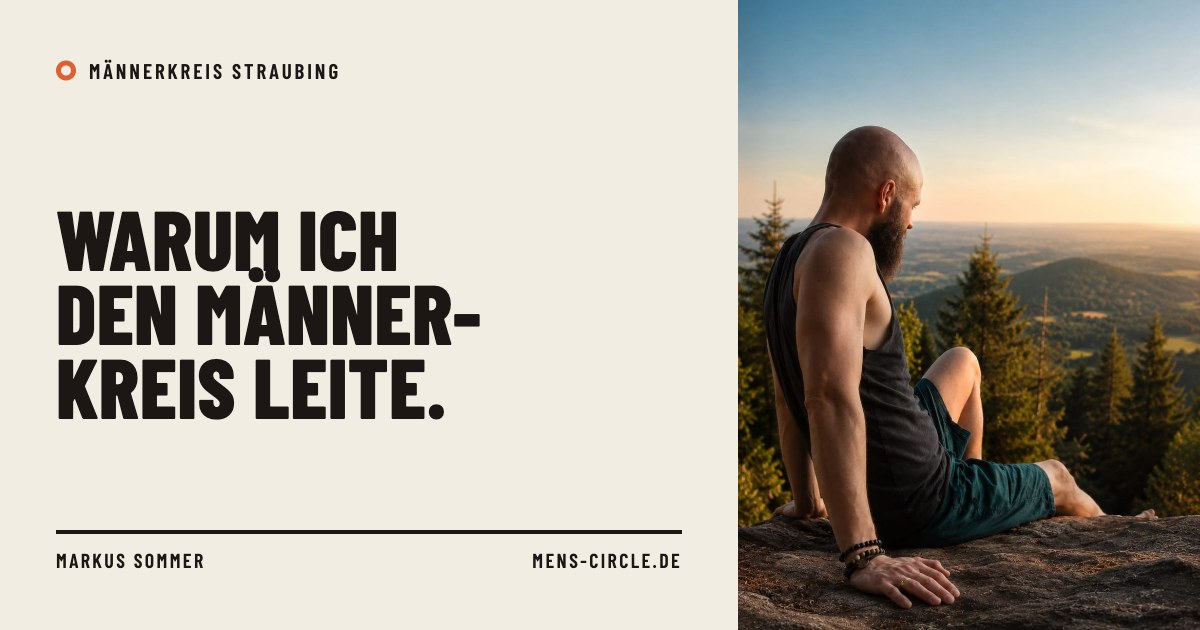
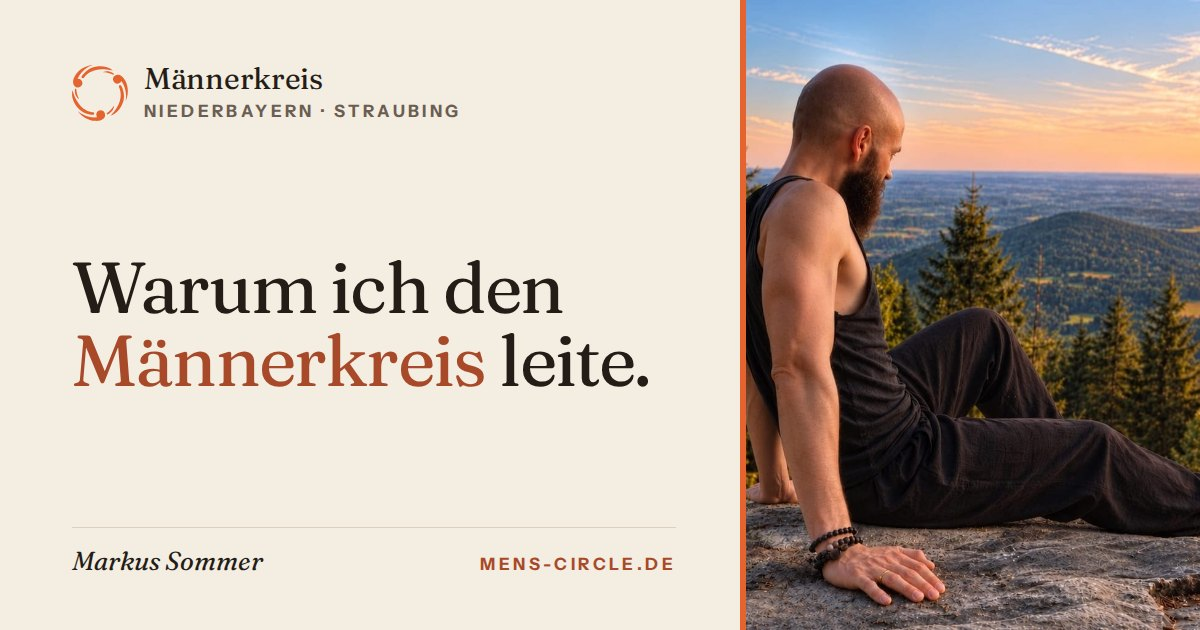
chore(branding): rebrand site as Männerkreis Niederbayern

diff --git a/listmonk-templates/campaign-mens-circle.html b/listmonk-templates/campaign-mens-circle.html
@@ -65,7 +65,7 @@
 
       <!-- Opening: the site's sentence -->
       <tr><td class="em-pad" style="padding:40px 40px 6px;">
-        <p class="em-sans" style="margin:0 0 14px;font-family:'Instrument Sans','Helvetica Neue',Helvetica,Arial,sans-serif;font-size:12px;font-weight:700;line-height:1.3;letter-spacing:0.18em;text-transform:uppercase;color:#6b5d52;"><span style="display:inline-block;width:7px;height:7px;margin-right:9px;border:1.5px solid #a84a2a;border-radius:50%;vertical-align:1px;"></span>Männerkreis Straubing</p>
+        <p class="em-sans" style="margin:0 0 14px;font-family:'Instrument Sans','Helvetica Neue',Helvetica,Arial,sans-serif;font-size:12px;font-weight:700;line-height:1.3;letter-spacing:0.18em;text-transform:uppercase;color:#6b5d52;"><span style="display:inline-block;width:7px;height:7px;margin-right:9px;border:1.5px solid #a84a2a;border-radius:50%;vertical-align:1px;"></span>Männerkreis Niederbayern</p>
         <h1 class="em-display em-serif" style="margin:0;font-family:'Fraunces',Georgia,'Times New Roman',serif;font-size:40px;font-weight:400;line-height:1.05;letter-spacing:-0.02em;color:#241c17;">Ein Abend, an dem du <span style="color:#a84a2a;">nichts darstellen</span> musst.</h1>
       </td></tr>
       <tr><td class="em-pad" style="padding:26px 40px 0;"><table role="presentation" width="100%" cellpadding="0" cellspacing="0" border="0"><tr><td style="height:1px;background-color:#dccfbd;font-size:0;line-height:0;">&nbsp;</td></tr></table></td></tr>
@@ -88,7 +88,7 @@
         <p class="em-sans" style="margin:12px 0 0;font-family:'Instrument Sans','Helvetica Neue',Helvetica,Arial,sans-serif;font-size:14px;line-height:1.65;color:#b3a594;">Ein Männerkreis in Straubing, Niederbayern. Wir treffen uns alle zwei bis vier Wochen für zwei bis drei Stunden, auf Spendenbasis und ohne Vorerfahrung.</p>
         <p class="em-sans" style="margin:16px 0 0;font-family:'Instrument Sans','Helvetica Neue',Helvetica,Arial,sans-serif;font-size:14px;font-weight:600;line-height:1.5;"><a href="{{ TrackLink "https://mens-circle.de" }}" target="_blank" style="color:#e4632e;text-decoration:none;">mens-circle.de</a><span style="color:#b3a594;">&nbsp;&nbsp;·&nbsp;&nbsp;</span><a href="{{ MessageURL }}" target="_blank" style="color:#e4632e;text-decoration:none;">Im Browser ansehen</a></p>
         <p class="em-sans" style="margin:20px 0 0;padding-top:16px;border-top:1px solid #3a302a;font-family:'Instrument Sans','Helvetica Neue',Helvetica,Arial,sans-serif;font-size:12px;line-height:1.6;color:#b3a594;">Du bekommst diese E-Mail, weil du dich für Nachrichten über neue Termine eingetragen hast. Mehr wird über diesen Verteiler nicht verschickt.</p>
-        <p class="em-sans" style="margin:10px 0 0;font-family:'Instrument Sans','Helvetica Neue',Helvetica,Arial,sans-serif;font-size:12px;line-height:1.6;color:#b3a594;"><a href="{{ UnsubscribeURL }}" target="_blank" style="color:#f1e9db;text-decoration:underline;">Vom Verteiler abmelden</a>&nbsp;&nbsp;·&nbsp;&nbsp;© {{ Date "2006" }} Männerkreis Straubing</p>
+        <p class="em-sans" style="margin:10px 0 0;font-family:'Instrument Sans','Helvetica Neue',Helvetica,Arial,sans-serif;font-size:12px;line-height:1.6;color:#b3a594;"><a href="{{ UnsubscribeURL }}" target="_blank" style="color:#f1e9db;text-decoration:underline;">Vom Verteiler abmelden</a>&nbsp;&nbsp;·&nbsp;&nbsp;© {{ Date "2006" }} Männerkreis Niederbayern</p>
       </td></tr>
 
     </table>

diff --git a/tests/event-meta.test.ts b/tests/event-meta.test.ts
@@ -36,9 +36,9 @@ test('held outside the home town, the title names the place before the brand', (
   expect(meta.title).toBe('Männerkreis am 18. September 2026 in Geiselhöring');
   expect(meta.title.length).toBeLessThanOrEqual(60);
   // Short enough, both stay.
-  expect(buildEventMeta(event({ title: 'Kreis', city: 'Bogen' }), SITE).title).toBe(
-    'Kreis am 18. September 2026 in Bogen – Männerkreis Straubing',
-  );
+  expect(
+    buildEventMeta(event({ title: 'Kreis', city: 'Bogen', event_date: '2026-05-02T00:00:00.000Z' }), SITE).title,
+  ).toBe('Kreis am 2. Mai 2026 in Bogen – Männerkreis Niederbayern');
 });
 
 test('the share title and description carry date, time, place and seats', () => {
@@ -47,7 +47,7 @@ test('the share title and description carry date, time, place and seats', () => 
   // The single question a forwarded link has to answer, in the bold line.
   expect(meta.ogTitle).toBe('Männerkreis am Freitag, 18. September 2026 in Straubing');
   // The <title> stays short enough to survive a SERP and names the brand once.
-  expect(meta.title).toBe('Männerkreis am 18. September 2026 – Männerkreis Straubing');
+  expect(meta.title).toBe('Männerkreis am 18. September 2026 – Männerkreis Niederbayern');
   expect(meta.title.length).toBeLessThanOrEqual(60);
 
   expect(meta.description).toContain('Freitag, 18. September 2026, 19:00–21:30 Uhr in Straubing');
@@ -73,14 +73,14 @@ test('the brand is appended once, never twice', () => {
   // An empty admin title falls back to the circle's own name; appending the site
   // name again would say it twice.
   const meta = buildEventMeta(event({ title: '   ' }), SITE);
-  expect(meta.title).toBe('Männerkreis Straubing am 18. September 2026');
+  expect(meta.title).toBe('Männerkreis Niederbayern am 18. September 2026');
   expect(buildEventMeta(event({ title: 'Wintersonnwende' }), SITE).title).toBe(
-    'Wintersonnwende am 18. September 2026 – Männerkreis Straubing',
+    'Wintersonnwende am 18. September 2026 – Männerkreis Niederbayern',
   );
 });
 
 test('unknown/new events use a real static poster without transformation URLs', () => {
-  expect(buildEventMeta(event(), SITE).image).toBe('https://mens-circle.de/images/og-default.png');
+  expect(buildEventMeta(event(), SITE).image).toBe('https://mens-circle.de/images/og-default.png?v=2');
   expect(buildEventMeta(event({ available_spots: 3 }), SITE).image).toBe(buildEventMeta(event(), SITE).image);
   expect(buildEventMeta(event(), SITE).extraImage).toBeNull();
 });
@@ -94,7 +94,7 @@ test('additional event images remain direct original URLs', () => {
 test('missing or unparseable dates never produce a half-written line', () => {
   const meta = buildEventMeta(event({ event_date: 'not-a-date', start_time: '', end_time: '' }), SITE);
   expect(meta.ogTitle).toBe('Männerkreis in Straubing');
-  expect(meta.title).toBe('Männerkreis – Männerkreis Straubing');
+  expect(meta.title).toBe('Männerkreis – Männerkreis Niederbayern');
   expect(meta.description.startsWith('Männerkreis in Straubing.')).toBe(true);
   expect(eventWhenWhere(event({ event_date: '', start_time: '', end_time: '' }))).toBe('Männerkreis in Straubing');
 });

diff --git a/src/lib/event-meta.ts b/src/lib/event-meta.ts
@@ -29,7 +29,7 @@ function truncate(text: string, limit = DESCRIPTION_LIMIT): string {
 }
 
 /** The event's own title, or the circle's name when it was left empty. */
-export const eventName = (event: EventDTO): string => stripHtml(event.title) || `Männerkreis ${site.geo.locality}`;
+export const eventName = (event: EventDTO): string => stripHtml(event.title) || site.siteName;
 
 /** City, then venue name, then home town. */
 export const eventPlace = (event: EventDTO): string =>
@@ -110,7 +110,7 @@ export function buildEventMeta(event: EventDTO, siteUrl: URL): EventMeta {
   const day = formatDayMonthYearDE(event.event_date);
   const longDate = formatDateLongDE(event.event_date);
   // One static 1200×630 poster for every event — SeoHead's default image.
-  const image = new URL('/images/og-default.png', siteUrl).href;
+  const image = new URL('/images/og-default.png?v=2', siteUrl).href;
 
   // Only append the brand when the title does not already carry it — saying the
   // name twice eats the 60 chars a SERP shows.

diff --git a/src/lib/server/config.ts b/src/lib/server/config.ts
@@ -26,9 +26,9 @@ const parseIntList = (raw: string): number[] =>
 
 export const config = {
   APP_URL: env('APP_URL', env('PUBLIC_SITE_URL', 'https://mens-circle.de')).replace(/\/+$/, ''),
-  SITE_NAME: env('SITE_NAME', 'Männerkreis Straubing'),
+  SITE_NAME: env('SITE_NAME', 'Männerkreis Niederbayern'),
   MAIL_FROM_ADDRESS: env('MAIL_FROM_ADDRESS', 'hallo@mens-circle.de'),
-  MAIL_FROM_NAME: env('MAIL_FROM_NAME', 'Männerkreis Niederbayern/ Straubing'),
+  MAIL_FROM_NAME: env('MAIL_FROM_NAME', 'Männerkreis Niederbayern'),
   MAIL_ADMIN_ADDRESS: env('MAIL_ADMIN_ADDRESS', 'hallo@mens-circle.de'),
   MAIL_ADMIN_NAME: env('MAIL_ADMIN_NAME', 'Männerkreis Admin'),
   CONTACT_EMAIL: env('MAIL_CONTACT_ADDRESS', 'hallo@mens-circle.de'),

diff --git a/src/lib/event-schema.ts b/src/lib/event-schema.ts
@@ -28,7 +28,7 @@ function buildPlace(event: EventDTO): Record<string, unknown> {
   const hasCoordinates = event.latitude != null && event.longitude != null;
   return {
     '@type': 'Place',
-    name: event.location || `Männerkreis ${site.geo.locality}`,
+    name: event.location || site.siteName,
     address: {
       '@type': 'PostalAddress',
       ...(event.street ? { streetAddress: event.street } : {}),

diff --git a/src/lib/series-schema.ts b/src/lib/series-schema.ts
@@ -17,7 +17,7 @@ export function eventSeriesSchema(siteUrl: URL): Record<string, unknown> {
     audience: { '@type': 'Audience', audienceType: 'Männer' },
     location: {
       '@type': 'Place',
-      name: `Männerkreis ${site.geo.locality}`,
+      name: site.siteName,
       address: {
         '@type': 'PostalAddress',
         addressLocality: site.geo.locality,
